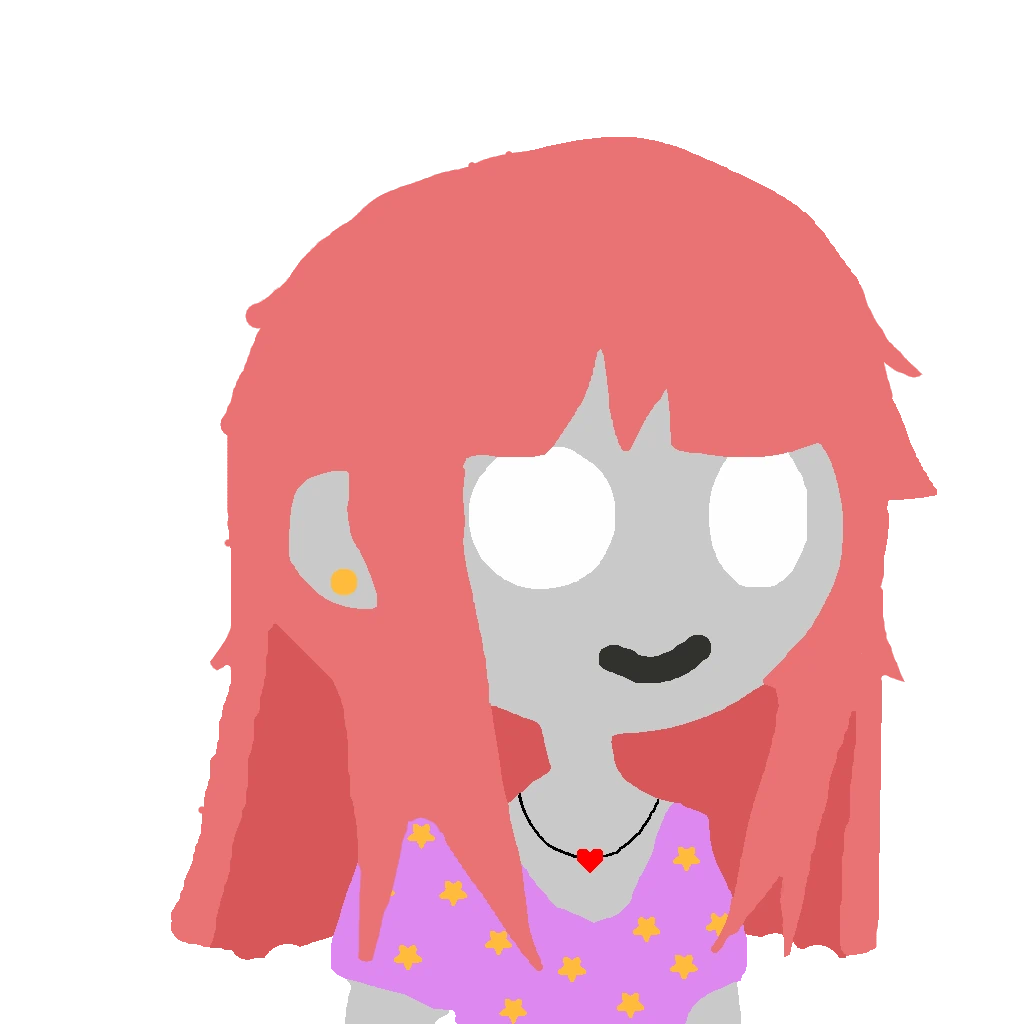
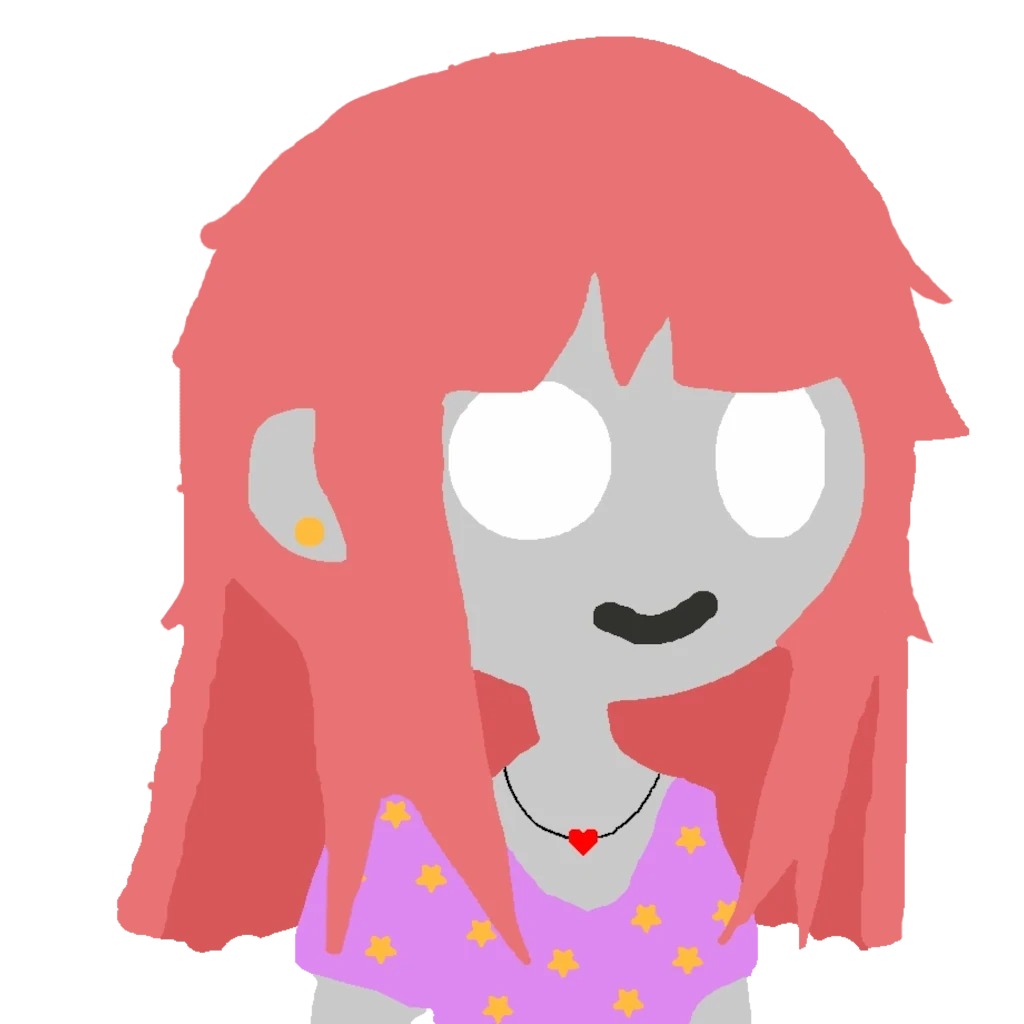
fix centering for profile pic

Changed region(s): [[0.0938, 0.0312, 0.9688, 1.0], [0.5938, 0.9688, 0.625, 1.0]]

diff --git a/pages/specials.md b/pages/specials.md
@@ -14,7 +14,7 @@ preload:
 # About me
 
 <span>I am</span>
-<img src="/assets/images/Yune.webp" alt="Profile Picture of Yune" width="24" height="24" style="border-radius: 50%;margin: 0 5px;vertical-align:middle;">
+<img src="/assets/images/Yune.webp" alt="Profile Picture of Yune" width="24" height="24" style="border-radius: 50%;border-width: 0.1px;border-color: black;border-style: solid;margin: 0 5px;vertical-align:middle;">
 <span>Yune, I want to do something for a change instead of procasinating.</span>
 
 # Links
